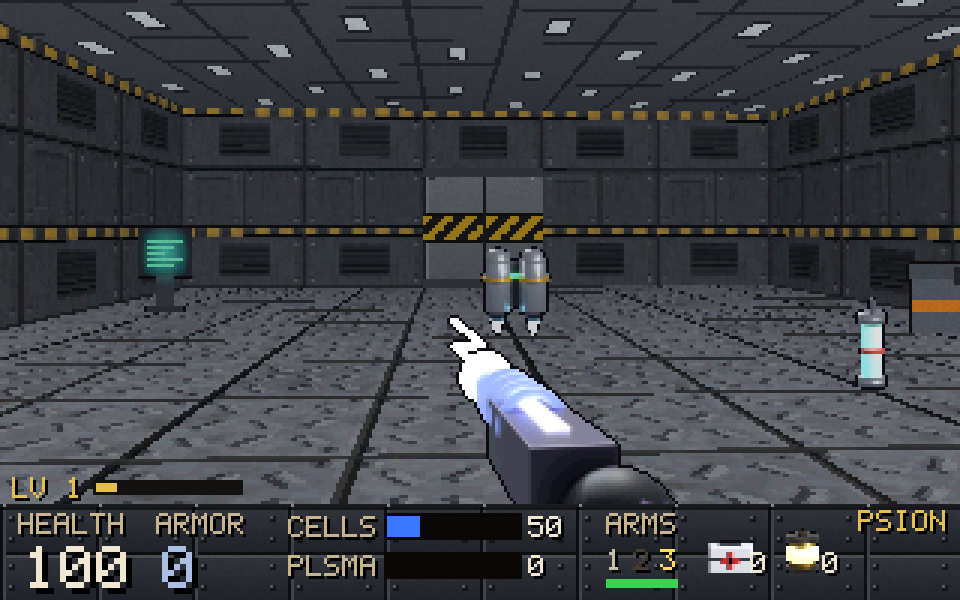
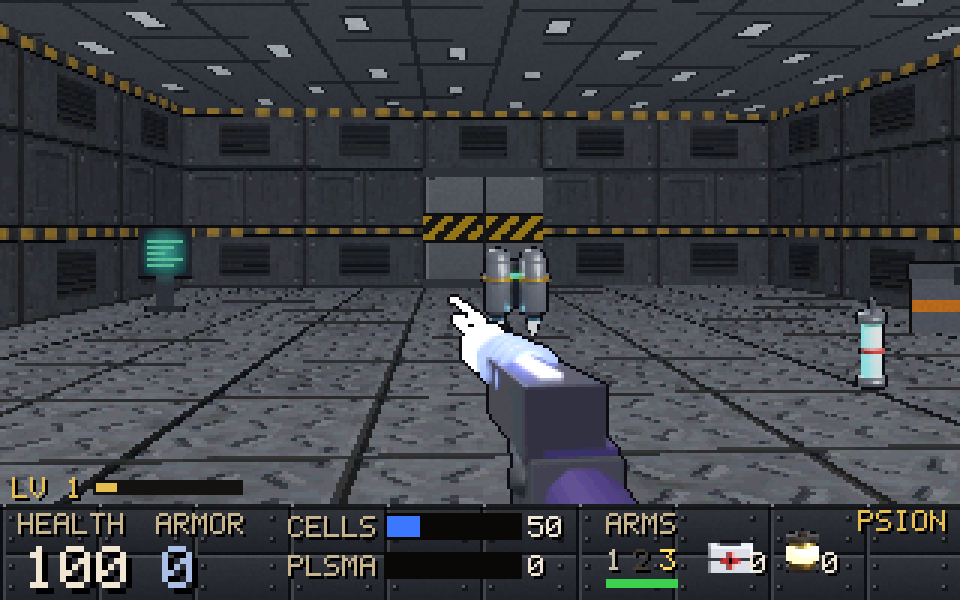
Give the rendered weapons proper gloves and a real punch
The plain dark ball of a hand becomes an armoured fist: knuckle guard with
accent lights, curled fingers, thumb, a back plate in the class colour and a
cuff. Guns get a pistol grip the fist closes on, so the hand and sleeve show
under each gun. The weapon key light now comes from behind the viewer, so the
faces you see are lit. The power fist's punch drives the right gauntlet toward
the crosshair with the arm coming in from the side, and bursts off the
knuckles in shock rings and sparks instead of hiding the fist behind a flash.

Claude-Session: https://claude.ai/code/session_01Cd95BVWVCBoytmQDLRrWJ5

Changed region(s): [[0.4688, 0.48, 0.7188, 0.84]]

diff --git a/tools/blender/build_scifi_assets.py b/tools/blender/build_scifi_assets.py
@@ -879,7 +879,7 @@ def weapon_camera():
 
 
 # where a weapon model (built around its grip, pointing along +Y, about a unit long) sits in front of the eye
-WPN_HOLD = dict(loc=(0.0, 0.75, -0.22), scale=0.5, rot=(-2, 0, 8))
+WPN_HOLD = dict(loc=(0.0, 0.75, -0.16), scale=0.46, rot=(-2, 0, 8))
 
 
 # melee weapons are held lower and further out, so a raised blade or a punch stays in frame
@@ -903,15 +903,43 @@ def weapon(name, build, hold=WPN_HOLD):
         rig.scale = (hold["scale"],) * 3
         rig.rotation_euler = [math.radians(v) for v in hold["rot"]]
         bpy.context.view_layer.update()
-        lights(key=2.6, fill=1.0, key_rot=(-40, 25, 15), rim=1.2)
+        lights(key=2.4, fill=0.8, key_rot=(40, 0, -20), rim=1.4)   # key from behind your shoulder, rim from ahead
         weapon_camera()
         write_png(os.path.join(OUT, "weapons", "%s_%s.png" % (name, frame)), shrink(render(), True))
 
 
-def arm(cls, hand, back=(0.62, -2.2, -1.0), r=0.13):
-    """Your sleeve and glove, from the hand back out of the bottom of the view."""
+ACCENTS = [(120, 200, 255), (255, 170, 60), (190, 140, 255)]   # glove lights: Marine, Engineer, Psion
+
+
+def arm(cls, hand, back=(0.8, -1.6, -1.3), r=0.13, armour=None, glow=1.5, fist=1.0):
+    """Your sleeve and gloved fist (`fist` times the sleeve's radius), from the hand back out of the bottom of the view."""
     limb(hand, back, r, mat(SLEEVES[cls], metal=0.2, rough=0.6))
-    add("sphere", hand, (r * 1.05, r * 1.05, r * 1.05), m=mat((48, 52, 60), metal=0.3, rough=0.55))
+    glove(cls, hand, back, r * fist, armour, glow)
+
+
+def glove(cls, hand, back, s, armour=None, glow=1.5):
+    """A right fist closed around a grip: knuckles forward (+Y), thumb over the top on the left, an armoured
+    plate in the class colour on the back and a cuff where it meets the sleeve. `armour` swaps in a heavier
+    material for the whole fist (the Marine's power gauntlets); `glow` is how bright the knuckle lights are."""
+    x, y, z = hand
+    padding = mat((84, 88, 98), metal=0.25, rough=0.6)
+    plate = armour or mat((150, 156, 168), metal=0.75, rough=0.3)
+    shell = armour or padding
+    accent = ACCENTS[cls]
+    add("cube", (x, y, z), (1.9 * s, 1.6 * s, 1.6 * s), m=shell, bevel=0.3 * s)                    # the fist
+    for k in range(4):                                                                              # curled fingers
+        add("cube", (x + (-0.69 + k * 0.46) * s, y + 0.82 * s, z - 0.12 * s), (0.42 * s, 0.5 * s, 1.15 * s),
+            m=mat((62, 66, 76), metal=0.3, rough=0.55), bevel=0.12 * s)
+    add("cube", (x, y + 0.62 * s, z + 0.72 * s), (2.0 * s, 0.6 * s, 0.4 * s), m=plate, bevel=0.1 * s)  # knuckle guard
+    add("cube", (x, y + 0.95 * s, z + 0.72 * s), (1.5 * s, 0.08 * s, 0.14 * s), m=mat(accent, emit=accent, strength=glow))
+    add("cube", (x + 0.12 * s, y - 0.15 * s, z + 0.84 * s), (1.5 * s, 1.1 * s, 0.22 * s),              # back plate
+        m=mat(SLEEVES[cls], metal=0.5, rough=0.35), bevel=0.08 * s)
+    limb((x - 0.95 * s, y - 0.35 * s, z + 0.2 * s), (x - 0.7 * s, y + 0.62 * s, z + 0.55 * s), 0.3 * s, shell)  # thumb
+    add("sphere", (x - 0.7 * s, y + 0.62 * s, z + 0.55 * s), (0.3 * s,) * 3, m=shell)
+    d = (Vector(back) - Vector(hand)).normalized()
+    h = Vector(hand)
+    limb(h + d * 0.8 * s, h + d * 1.9 * s, 0.9 * s, mat((56, 60, 70), metal=0.4, rough=0.5))       # cuff
+    limb(h + d * 1.5 * s, h + d * 1.65 * s, 0.95 * s, mat(accent, emit=accent, strength=glow * 0.8))
 
 
 def gun_body(pos, length, width, body, accent, barrel_r=0.04, barrels=(0.0,)):
@@ -921,7 +949,15 @@ def gun_body(pos, length, width, body, accent, barrel_r=0.04, barrels=(0.0,)):
     for bx in barrels:
         add("cyl", (x + bx, y + length * 0.55, z + 0.02), (barrel_r, barrel_r, length * 0.35), rot=(90, 0, 0), m=mat((70, 74, 84), metal=0.8, rough=0.35))
     add("cube", (x, y + length * 0.05, z + width * 0.46), (width * 0.3, length * 0.4, 0.012), m=mat(accent, emit=accent, strength=3))
+    gx, gy, gz = grip(pos, length, width)
+    add("cube", (gx, gy - 0.02, gz - 0.02), (0.09, 0.12, 0.3), rot=(-15, 0, 0), m=mat((50, 54, 62), metal=0.4, rough=0.5), bevel=0.02)
     return y + length * 0.9      # where the muzzle is
+
+
+def grip(pos, length, width):
+    """Where the hand closes on a gun_body's pistol grip, under the back of the receiver."""
+    x, y, z = pos
+    return (x + 0.02, y - length * 0.2, z - width * 0.45 - 0.08)
 
 
 def flash(pos, color, size=0.18, strength=10):
@@ -929,24 +965,35 @@ def flash(pos, color, size=0.18, strength=10):
 
 
 def power_fist(fire):
-    """Marine: armoured gauntlets; the right one punches forward crackling with energy."""
-    metal = mat((150, 156, 168), metal=0.8, rough=0.3)
-    for side in (-1, 1):
-        punching = fire and side == 1
-        hand = (0.15, 0.6, 0.12) if punching else ((-0.28, 0.0, 0.0) if side < 0 else (0.5, 0.0, 0.0))
-        arm(0, hand, back=(hand[0] + side * 0.3, -1.0, -2.0), r=0.13)
-        add("cube", hand, (0.3, 0.26, 0.22), m=metal, bevel=0.04)
-        for k in range(4):
-            add("cube", (hand[0] - 0.1 + k * 0.067, hand[1] + 0.13, hand[2] + 0.06), (0.05, 0.05, 0.06), m=mat((90, 96, 108), metal=0.8, rough=0.3))
-        add("cube", (hand[0], hand[1] - 0.02, hand[2] + 0.12), (0.2, 0.12, 0.03), m=mat((120, 200, 255), emit=(120, 200, 255), strength=3 if punching else 1.5))
+    """Marine: armoured power gauntlets. The right one punches out toward the crosshair and hits with a ring of
+    energy; the left pulls back to the hip."""
+    armour = mat((150, 156, 168), metal=0.8, rough=0.3)
+    blue = (120, 200, 255)
     if fire:
-        flash((0.15, 0.8, 0.14), (140, 210, 255), 0.16, 8)
+        left, right = (-0.44, -0.15, -0.25), (0.02, 0.55, -0.15)
+    else:
+        left, right = (-0.28, 0.0, 0.0), (0.5, 0.0, 0.0)
+    arm(0, left, back=(left[0] - 0.3, -1.0, -2.0), r=0.12, armour=armour, fist=1.3)
+    # the punching arm comes in from the right, so you see the fist and forearm side on rather than end on
+    arm(0, right, back=(0.9, -0.4, -1.8) if fire else (0.8, -1.0, -2.0), r=0.12, armour=armour, glow=5 if fire else 1.5, fist=1.3)
+    if fire:
+        front = right[1] + 0.2
+        c = Vector((right[0], front, right[2] + 0.04))
+        # the impact bursts off the knuckles: two shock rings, a bright core and sparks thrown outward
+        add("torus", c + Vector((0, 0.08, 0)), (1, 1, 1), rot=(90, 0, 0), m=mat(blue, emit=blue, strength=2.5), major_radius=0.12, minor_radius=0.026)
+        add("torus", c + Vector((0, 0.2, 0)), (1, 1, 1), rot=(90, 0, 0), m=mat((150, 210, 255), emit=(110, 180, 255), strength=1.6),
+            major_radius=0.2, minor_radius=0.018)
+        flash(c + Vector((0, 0.04, 0)), (180, 225, 255), 0.06, 6)
+        for ang in (20, 70, 150, 200, 250, 320):
+            a = math.radians(ang)
+            p0 = c + Vector((0.2 * math.cos(a), 0.2, 0.2 * math.sin(a)))
+            limb(p0, p0 + Vector((0.09 * math.cos(a), 0.05, 0.09 * math.sin(a))), 0.016, mat(blue, emit=blue, strength=3))
 
 
 def vibro_blade(fire):
     """Marine: a humming energy blade, held up and then swung across."""
     hand = (0.15, 0.2, 0.0) if fire else (0.4, 0.0, -0.05)
-    arm(0, hand, back=(0.8, -1.0, -2.0))
+    arm(0, hand, back=(0.8, -1.0, -2.0), r=0.1, fist=1.3)
     parts = [add("cyl", hand, (0.05, 0.05, 0.14), m=mat((50, 54, 60), metal=0.6, rough=0.4)),
              add("cube", (hand[0], hand[1], hand[2] + 0.16), (0.16, 0.05, 0.04), m=mat((150, 156, 168), metal=0.8, rough=0.3)),
              add("cube", (hand[0], hand[1], hand[2] + 0.46), (0.06, 0.015, 0.56), m=mat((200, 240, 255), emit=(120, 220, 255), strength=4))]
@@ -959,7 +1006,7 @@ def grav_launcher(fire):
     muzzle = gun_body((0.16, 0.05 + kick, -0.02), 0.95, 0.24, mat((110, 116, 128), metal=0.7, rough=0.35), (200, 120, 255), barrel_r=0.08)
     for k in range(3):
         add("torus", (0.16, 0.1 + kick + k * 0.14, 0.02), (1, 1, 1), rot=(90, 0, 0), m=mat((200, 120, 255), emit=(200, 120, 255), strength=3), major_radius=0.12, minor_radius=0.02)
-    arm(0, (0.22, -0.32 + kick, -0.08))
+    arm(0, grip((0.16, 0.05 + kick, -0.02), 0.95, 0.24))
     if fire:
         flash((0.16, muzzle + 0.05, 0.02), (210, 140, 255), 0.24)
 
@@ -967,7 +1014,7 @@ def grav_launcher(fire):
 def shock_baton(fire):
     """Engineer: a baton with a crackling tip, jabbed forward."""
     hand = (0.25, 0.35, -0.02) if fire else (0.4, 0.0, -0.05)
-    arm(1, hand, back=(0.8, -1.0, -2.0))
+    arm(1, hand, back=(0.8, -1.0, -2.0), r=0.1, fist=1.3)
     parts = [add("cyl", (hand[0], hand[1], hand[2] + 0.25), (0.035, 0.035, 0.3), m=mat((60, 62, 70), metal=0.6, rough=0.4)),
              add("cyl", (hand[0], hand[1], hand[2] + 0.56), (0.06, 0.06, 0.05), m=mat((120, 200, 255), emit=(120, 200, 255), strength=3 if fire else 1.5))]
     if fire:
@@ -980,7 +1027,7 @@ def bio_rifle(fire):
     kick = -0.06 if fire else 0.0
     muzzle = gun_body((0.14, 0.05 + kick, -0.02), 1.0, 0.16, mat((84, 96, 84), metal=0.5, rough=0.45), (120, 255, 120))
     add("cyl", (0.3, -0.05 + kick, 0.02), (0.07, 0.07, 0.2), rot=(90, 0, 0), m=mat((70, 230, 100), rough=0.2, emit=(60, 220, 90), strength=2))
-    arm(1, (0.2, -0.3 + kick, -0.08))
+    arm(1, grip((0.14, 0.05 + kick, -0.02), 1.0, 0.16))
     if fire:
         flash((0.14, muzzle + 0.05, 0.02), (130, 255, 130), 0.18)
 
@@ -991,7 +1038,7 @@ def flamer(fire):
     muzzle = gun_body((0.14, 0.05 + kick, -0.02), 0.85, 0.2, mat((110, 100, 90), metal=0.5, rough=0.45), (255, 150, 40), barrel_r=0.06)
     add("cyl", (0.34, -0.1 + kick, 0.0), (0.1, 0.1, 0.32), rot=(90, 0, 0), m=mat((200, 80, 40), metal=0.3, rough=0.4))
     add("sphere", (0.14, muzzle, 0.02), (0.05, 0.05, 0.05), m=mat((255, 140, 40), emit=(255, 140, 40), strength=2))
-    arm(1, (0.2, -0.3 + kick, -0.08))
+    arm(1, grip((0.14, 0.05 + kick, -0.02), 0.85, 0.2))
     if fire:
         for k in range(3):
             flash((0.14 + (k - 1) * 0.06, muzzle + 0.15 + k * 0.12, 0.05 + k * 0.03), (255, 160 - k * 30, 50), 0.14 + k * 0.05, 8)
@@ -1001,7 +1048,7 @@ def blaster(fire):
     """Psion: a compact sidearm."""
     kick = -0.06 if fire else 0.0
     muzzle = gun_body((0.16, 0.0 + kick, -0.04), 0.55, 0.13, mat((130, 136, 148), metal=0.7, rough=0.3), (80, 160, 255))
-    arm(2, (0.19, -0.26 + kick, -0.1), r=0.11)
+    arm(2, grip((0.16, 0.0 + kick, -0.04), 0.55, 0.13), r=0.11)
     if fire:
         flash((0.16, muzzle + 0.03, 0.0), (110, 180, 255), 0.14)
 
@@ -1011,7 +1058,7 @@ def shard_gun(fire):
     kick = -0.06 if fire else 0.0
     muzzle = gun_body((0.15, 0.03 + kick, -0.03), 0.8, 0.26, mat((120, 128, 142), metal=0.7, rough=0.3), (160, 230, 255),
                       barrel_r=0.035, barrels=(-0.08, 0.0, 0.08))
-    arm(2, (0.2, -0.3 + kick, -0.1), r=0.11)
+    arm(2, grip((0.15, 0.03 + kick, -0.03), 0.8, 0.26), r=0.11)
     if fire:
         for bx in (-0.08, 0.0, 0.08):
             flash((0.15 + bx, muzzle + 0.05, 0.0), (170, 235, 255), 0.09)
@@ -1023,7 +1070,7 @@ def arc_rifle(fire):
     muzzle = gun_body((0.15, 0.05 + kick, -0.02), 1.0, 0.18, mat((80, 76, 100), metal=0.6, rough=0.35), (220, 220, 255), barrel_r=0.05)
     for k in range(4):
         add("torus", (0.15, 0.15 + kick + k * 0.12, 0.02), (1, 1, 1), rot=(90, 0, 0), m=mat((150, 160, 255), emit=(120, 140, 255), strength=1.5), major_radius=0.08, minor_radius=0.015)
-    arm(2, (0.21, -0.3 + kick, -0.08), r=0.11)
+    arm(2, grip((0.15, 0.05 + kick, -0.02), 1.0, 0.18), r=0.11)
     if fire:
         pts = [(0.15, muzzle, 0.02), (0.05, muzzle + 0.2, 0.12), (0.2, muzzle + 0.4, 0.1), (0.08, muzzle + 0.62, 0.2)]
         for a, b in zip(pts, pts[1:]):
